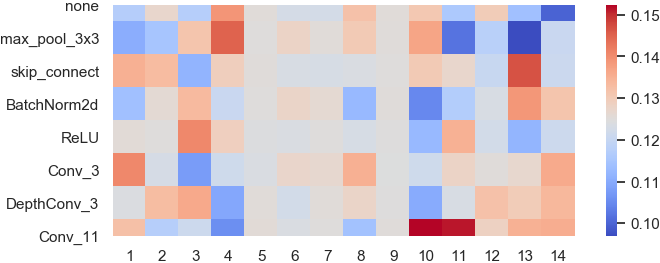
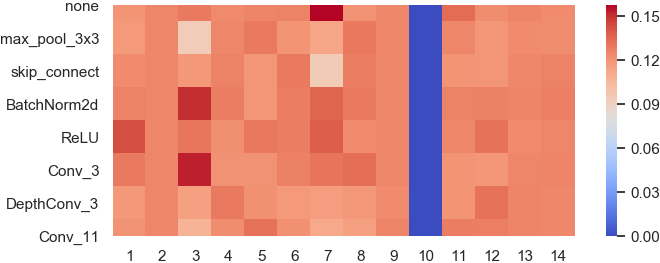
1)StemCell::alpha 2)config.topo_edges

diff --git a/cnn/Cell.py b/cnn/Cell.py
@@ -68,7 +68,7 @@ class StemCell(nn.Module):
             C_prev_prev, C_prev = cells[-2].nChanel,cells[-1].nChanel
 
         self.config = config
-        self.weight=None      
+        self.alpha=None     
         self.excitation = None#se_channels(self.nChanel,reduction=2)  
         #self.excitation = eca_channel(self.nChanel)
 
@@ -107,9 +107,9 @@ class StemCell(nn.Module):
     def init_weight(self):
         nOP = len(self._ops)
         if self.config.op_struc == "se":
-            assert nOP == len(self.weight.nets)
+            assert nOP == len(self.alpha.nets)
             for i,op in enumerate(self._ops):
-                op.se_op = self.weight.nets[i]
+                op.se_op = self.alpha.nets[i]
         pass
 
 
@@ -117,10 +117,10 @@ class StemCell(nn.Module):
     def forward(self, results):
         assert len(results)>=2
         if self.config.op_struc != "se": 
-            [weights,weights2] = self.weight.get_weight("forward")
+            [weights,weights2] = self.alpha.get_weight("forward")
         else:
             weights,weights2 = None,None
-        #[weights,weights2] = self.weight.get_weight()   #se_net一样可以返回weight,非常微妙啊
+        #[weights,weights2] = self.alpha.get_weight()   #se_net一样可以返回weight,非常微妙啊
 
         if True:
             #s0 = self.preprocess0(s0);            s1 = self.preprocess1(s1)
@@ -130,15 +130,32 @@ class StemCell(nn.Module):
 
         states = [s0, s1]
         offset = 0
-        for i in range(self._steps):
-            if weights2 is not None:
-                s = sum(weights2[offset+j]*self._ops[offset+j](h, weights[offset+j]) for j, h in enumerate(states))
-            elif weights is not None:
-                s = sum(self._ops[offset+j](h, weights[offset+j]) for j, h in enumerate(states))
-            else:
-                s = sum(self._ops[offset+j](h) for j, h in enumerate(states))
+        for i in range(self._steps):                
+            if self.config.topo_edges=="2":
+                assert self.alpha.hasBeta           
+                cands = list(range(len(states)))
+                cands = random.sample(cands,k=2)                
+                beta = self.alpha.betas_[offset:offset+len(states)] 
+                beta = F.softmax(beta,dim=0)
+                #print(f"{[i+offset for i in cands]}\t",end="")
+                s = sum(beta[j]*self._ops[offset+j](states[j], None if weights is None else weights[offset+j]) for j in cands)
+            elif self.config.topo_edges=="1":
+                cands = list(range(len(states)))
+                if weights2 is None:
+                    beta = [1.0 for i in cands]
+                else:
+                    beta = weights2[offset:offset+len(states)] 
+                s = sum(beta[j]*self._ops[offset+j](states[j], None if weights is None else weights[offset+j]) for j in cands)
+            else:   #仅用于兼容PCC
+                if weights2 is not None:
+                    s = sum(weights2[offset+j]*self._ops[offset+j](h, weights[offset+j]) for j, h in enumerate(states))
+                elif weights is not None:
+                    s = sum(self._ops[offset+j](h, weights[offset+j]) for j, h in enumerate(states))
+                else:
+                    s = sum(self._ops[offset+j](h) for j, h in enumerate(states))
 
             offset += len(states)
+            assert offset == self.topo.hGraph[i+1]
             states.append(s)
         out = torch.cat([states[id] for id in self._concat], dim=1)
         if self.excitation is not None:
@@ -170,12 +187,8 @@ class StemCell(nn.Module):
                 n += 1
                 weights2 = torch.cat([weights2, tw2], dim=0)
     
-    # def weight2gene(self):
-    #     gene = self.weight.get_gene()
-    #     return gene
-    
     def get_alpha(self):
-        [weights,weights2] = self.weight.get_weight()
+        [weights,weights2] = self.alpha.get_weight()
         assert weights is not None
         return weights
 

diff --git a/cnn/attention_net.py b/cnn/attention_net.py
@@ -182,6 +182,10 @@ class se_operate(nn.Module):
     #     self.alpha = torch.zeros(self.nOP)
     
     def UpdateAlpha(self):
+        if self.nStep==0:
+            print(f"\tnStep=0")
+            self.alpha=self.alpha_sum*1
+            return
         self.alpha=self.alpha_sum/self.nStep
         #print(f"\tnStep={self.nStep}",end="")
         a = torch.sum(self.alpha).item()
@@ -223,6 +227,8 @@ class Alpha4Cell(object):
         self.topo = topo
         self.isReduce = isReduce
         self.hasBeta = self.config.op_struc == "PCC" or  self.config.op_struc == "pair"
+        if self.config.topo_edges == "2":
+            self.hasBeta = True
         #k = sum(1 for i in range(self.nNode) for n in range(2+i))            
         k = self.topo.hGraph[-1]
         self.desc = f"W[{k},{nOP}]"
@@ -230,8 +236,8 @@ class Alpha4Cell(object):
             pass
         else:
             self.alphas_ = Variable(1e-3*torch.randn((k,nOP)).cuda(), requires_grad=True)
-            if self.hasBeta:
-                self.betas_ = Variable(1e-3*torch.randn(k).cuda(), requires_grad=True)          
+        if self.hasBeta:
+            self.betas_ = Variable(1e-3*torch.randn(k).cuda(), requires_grad=True)          
 
         if self.hasBeta:   self.desc+="\tbeta"
         if self.isReduce:   self.desc+="\treduce"
@@ -325,7 +331,9 @@ class Alpha4Cell(object):
         if self.nets is not None:
             for net in self.nets:
                 for name, param in net.named_parameters():
-                    param_list.append(param)         
+                    param_list.append(param)    
+            if self.hasBeta:
+                param_list.append(self.betas_) 
             return param_list   
         if self.hasBeta:
             return [self.alphas_,self.betas_]
@@ -347,8 +355,9 @@ class Alpha_se(Alpha4Cell):
     #         net.BeforeEpoch()
 
     def step(self):
-        list_alpha=[]            
-        for net in self.nets:
+        list_alpha=[]    
+        nNet = len(self.nets)        
+        for i,net in enumerate(self.nets):
             net.UpdateAlpha()
             list_alpha.append(net.alpha)
         self.alphas_ = torch.stack(list_alpha,dim=0)

diff --git a/cnn/genotypes.py b/cnn/genotypes.py
@@ -121,12 +121,19 @@ S_CYS_cifar = Genotype(
     reduce=[('max_pool_3x3', 0), ('max_pool_3x3', 1), ('Conv_3', 2), ('max_pool_3x3', 0), ('Conv_3', 3), ('Conv_3', 2), ('Conv_3', 4), ('Conv_3', 3)], reduce_concat=range(2, 6))
 
 '''
-    96.9{lr=0.125}
+    96.9{lr=0.125}  96.82{lr=0.25}
     96.68{lr=0.125-0.001}
 '''
 G_C_se = Genotype(
     normal=[('DepthConv_3', 0), ('DepthConv_3', 1), ('ReLU', 1), ('Conv_3', 0), ('DepthConv_3', 3), ('DepthConv_3', 1), ('Conv_3', 4), ('DepthConv_3', 1)],normal_concat=[2, 3, 4, 5], 
     reduce=[('max_pool_3x3', 0), ('max_pool_3x3', 1), ('BatchNorm2d', 2), ('max_pool_3x3', 0), ('BatchNorm2d', 2), ('DepthConv_3', 3), ('Conv_3', 4), ('Identity', 2)], reduce_concat=[2, 3, 4, 5])
+
+'''
+    97.06{lr=0.25}
+'''
+GC_darts_2 = Genotype(
+    normal=[('DepthConv_3', 0), ('DepthConv_3', 1), ('DepthConv_3', 2), ('Conv_3', 0), ('Conv_11', 0), ('DepthConv_3', 1), ('Conv_11', 0), ('Conv_3', 1)], normal_concat=[2, 3, 4, 5], 
+    reduce=[('max_pool_3x3', 1), ('max_pool_3x3', 0), ('max_pool_3x3', 1), ('max_pool_3x3', 0), ('max_pool_3x3', 1), ('max_pool_3x3', 0), ('Conv_3', 0), ('skip_connect', 1)], reduce_concat=[2, 3, 4, 5])
 
 '''
     94.4{lr=0.125}  很差，莫名其妙
@@ -187,7 +194,7 @@ def dump_genotype(model, logging,plot_path):
         return
 
     logging.info('genotype = %s', genotype)
-    genotype_1 = model.cells[1].weight.get_gene()
+    genotype_1 = model.cells[1].alpha.get_gene()
     if genotype_1 not in genotype:
         print(f"\n!!!GENOTYPE MisMatch!!! \n{genotype_1}\n{genotype}\n!!!GENOTYPE MisMatch!!!\n")
     if True:

diff --git a/cnn/model_search.py b/cnn/model_search.py
@@ -220,10 +220,10 @@ class Network(nn.Module):
             if not isShare:
                 w_cell = self.NewAlphas(nOP,cell.reduction)
             if cell.reduction:                
-                cell.weight = w_reduce if isShare else w_cell
+                cell.alpha = w_reduce if isShare else w_cell
                 nReduct=nReduct+1
             else:
-                cell.weight = w_normal if isShare else w_cell
+                cell.alpha = w_normal if isShare else w_cell
                 nNormal=nNormal+1
             cell.init_weight()
         print(f"======"*16) 
@@ -279,8 +279,12 @@ class Network(nn.Module):
                     return "",False
                 alphas_normal,alphas_reduce=self.alphas_normal,self.alphas_reduce
             else:
-                assert len(self._arch_parameters)==2
-                alphas_normal,alphas_reduce=self._arch_parameters[0],self._arch_parameters[1]
+                if len(self._arch_parameters)==2:       #[a,a]
+                    alphas_normal,alphas_reduce=self._arch_parameters[0],self._arch_parameters[1]
+                elif len(self._arch_parameters)==4:     #[a,b,a,b]
+                    alphas_normal,alphas_reduce=self._arch_parameters[0],self._arch_parameters[2]
+                else:
+                    assert False
         else:            
             return "",False
                 

diff --git a/utils/config.py b/utils/config.py
@@ -39,6 +39,7 @@ class QuantumFold_config:
         self.warm_up = 0
         self.cell_express = ""              #""
         self.bi_optimize = "aneal"          #"aneal" 
+        self.topo_edges = "2"           #""
         
         self.search_alpha = False
         self.err_relative = False
@@ -57,6 +58,7 @@ class QuantumFold_config:
         attention = self.attention[0:3]
         express = self.cell_express
         leg = f"{express}{share}^{self.op_struc}^{self.primitive}^{attention}"
+        leg = f"{express}{share}^{self.op_struc}^{self.primitive}^{self.topo_edges}"
       
         return leg
 

diff --git a/cnn/MixedOp.py b/cnn/MixedOp.py
@@ -61,7 +61,7 @@ class MixedOp_se(MixedOp):
         nOP = len(self._ops)   
         self.desc = f"SE_op_{nOP}_C{C}_stride{stride}"
 
-    def forward(self, x):        
+    def forward(self, x, alpha=None,beta=None):        
         assert hasattr(self,'se_op')
         se_net = self.se_op
         if self.config.attention=="E2W" and not self.config.search_alpha:
